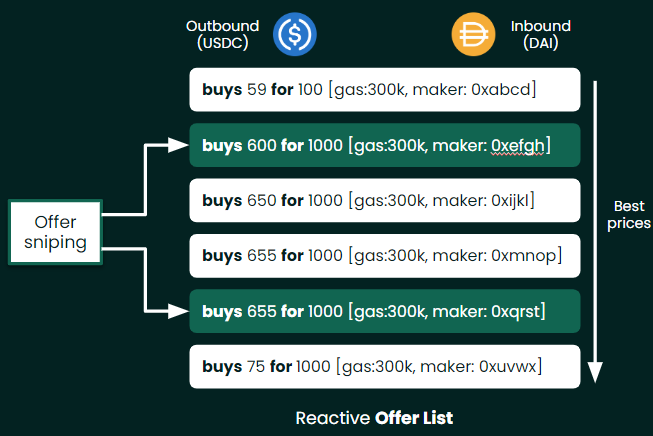
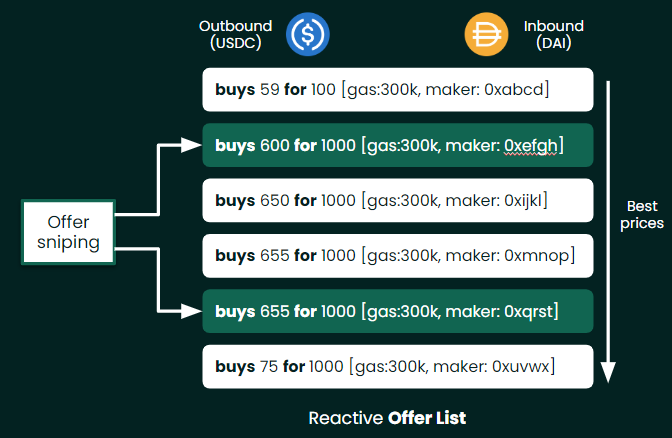
More edits on Background pages

diff --git a/docs/contracts/background/offer-taker.md b/docs/contracts/background/offer-taker.md
@@ -21,14 +21,14 @@ A market order consumes the offers starting from the best price, making sure tha
 
 import useBaseUrl from '@docusaurus/useBaseUrl';
 
-<img src={useBaseUrl('img/assets/takerOrder1.png')} width="400px"/><br /><br />
+<img src={useBaseUrl('img/assets/takerOrder1.png')} width="450px"/><br /><br />
 
 
 ## Offer sniping
 
 A taker may snipe a custom set of offers, targeting those that have the lowest required gas for instance.
 
-<img src={useBaseUrl('img/assets/takerOrder2.png')} width="400px"/><br /><br />
+<img src={useBaseUrl('img/assets/takerOrder2.png')} width="450px"/><br /><br />
 
 
 ## More information on taking offers
